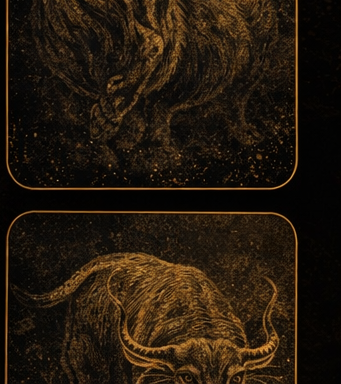
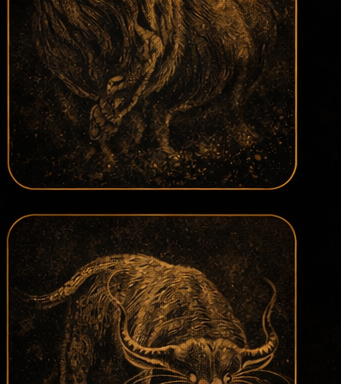
Add files via upload

diff --git a/index.html b/index.html
@@ -9,8 +9,8 @@
 .hero h1{margin:0;font-size:30px}.hero p{margin:6px 0 0;color:var(--muted);font-size:14px;line-height:1.45}
 .proverb-card{position:relative;overflow:hidden;border:1px solid rgba(212,175,55,.24);border-radius:24px;box-shadow:var(--shadow);margin-bottom:14px;min-height:330px;background:#0d0d0d}
 .proverb-bg{position:absolute;inset:0;background-position:center center;background-size:cover;background-repeat:no-repeat;filter:brightness(.95)}
-.proverb-overlay{position:absolute;inset:0;background:linear-gradient(90deg, rgba(0,0,0,.88) 0%, rgba(0,0,0,.78) 35%, rgba(0,0,0,.38) 65%, rgba(0,0,0,.18) 100%),linear-gradient(180deg, rgba(0,0,0,.12), rgba(0,0,0,.26));z-index:1}
-.proverb-content{position:relative;z-index:2;padding:18px;max-width:68%}
+.proverb-overlay{position:absolute;inset:0;background:linear-gradient(90deg, rgba(0,0,0,.88) 0%, rgba(0,0,0,.78) 34%, rgba(0,0,0,.40) 62%, rgba(0,0,0,.22) 100%),linear-gradient(180deg, rgba(0,0,0,.10), rgba(0,0,0,.24));z-index:1}
+.proverb-content{position:relative;z-index:2;padding:18px;max-width:66%}
 .proverb-top{display:flex;justify-content:space-between;align-items:center;gap:12px}.proverb-label{font-size:12px;font-weight:800;letter-spacing:.16em;text-transform:uppercase;color:#f4df95}
 .badge{font-size:11px;font-weight:700;border:1px solid rgba(255,255,255,.14);padding:6px 10px;border-radius:999px;color:#f3f3f3;background:rgba(255,255,255,.05)}
 .quote-mark{font-family:Georgia,"Times New Roman",serif;font-size:64px;line-height:.7;color:#d6ad4d;opacity:.95;margin-top:18px}
@@ -30,9 +30,9 @@ button.primary{background:#fff;color:#000}button.good{background:var(--good);col
 .series-row{display:flex;gap:8px;flex-wrap:wrap;margin-top:10px}.series-box{width:34px;height:34px;border-radius:10px;border:2px solid rgba(255,255,255,.4);display:flex;align-items:center;justify-content:center;background:#fff;color:#000;font-weight:900;font-size:15px;cursor:pointer;user-select:none}
 .series-box.done{background:var(--good);border-color:var(--good);color:#041c0e}.series-label{font-size:12px;color:var(--muted);margin-top:6px}
 .history-item{background:rgba(255,255,255,.03);border:1px solid var(--border);border-radius:14px;padding:12px;margin-top:10px}.stats-grid{display:grid;grid-template-columns:1fr 1fr;gap:10px}.footer{color:var(--muted);text-align:center;font-size:12px;margin-top:12px}
-@media (max-width:480px){.proverb-card{min-height:360px}.proverb-content{max-width:72%}.proverb-text{font-size:26px}.title{font-size:20px}.timer .time{font-size:38px}}
+@media (max-width:480px){.proverb-card{min-height:360px}.proverb-content{max-width:74%}.proverb-text{font-size:26px}.title{font-size:20px}.timer .time{font-size:38px}}
 </style></head><body><div class="wrap">
-<div class="hero"><h1>Treino Semanal Séries</h1><p>Agora com provérbio do dia em destaque e artes dos 12 animais do horóscopo chinês distribuídas pelas 60 frases.</p></div>
+<div class="hero"><h1>Treino Semanal Séries</h1><p>Agora com provérbio do dia em destaque e 12 artes individuais dos animais do horóscopo chinês distribuídas pelas 60 frases.</p></div>
 <div class="proverb-card"><div class="proverb-bg" id="proverbBg"></div><div class="proverb-overlay"></div><div class="proverb-content"><div class="proverb-top"><div class="proverb-label">Provérbio do dia</div><div class="badge">Sabedoria oriental</div></div><div class="quote-mark">“</div><div class="proverb-text" id="messageText"></div><div class="proverb-footer" id="animalName"></div></div></div>
 <div class="block"><strong>Instalar como app</strong><div id="installText">Abra no Chrome e aguarde alguns segundos. Se o botão aparecer, toque nele.</div><div class="row"><button id="installBtn" class="good" style="display:none">Instalar app</button><button id="exportBtn" class="ghost">Exportar progresso</button></div></div>
 <div class="row"><button id="wakeBtn" class="warn">Modo academia: desligado</button><button id="notifyBtn" class="ghost">Som e vibração: ligados</button></div>
@@ -44,7 +44,7 @@ button.primary{background:#fff;color:#000}button.good{background:var(--good);col
 <div class="history"><strong>Histórico</strong><div id="historyList">Nenhum treino finalizado ainda.</div></div>
 <div class="footer">App de treino com séries • provérbios do dia • salvo localmente no seu celular.</div></div>
 <script>
-const DAYS={"terca": {"title": "Terça — Peito + Tríceps", "sub": "19h • descanso 60–90s", "exs": [["Supino inclinado máquina", 4, "10 repetições", "90s"], ["Supino inclinado halter", 4, "10 repetições", "90s"], ["Crucifixo máquina", 4, "12 repetições", "60s"], ["Tríceps corda pulley", 4, "12 repetições", "60s"], ["Tríceps francês corda", 4, "12 repetições", "60s"], ["Coice corda isolado", 4, "12 repetições", "60s"]]}, "quarta": {"title": "Quarta — Costas + Bíceps", "sub": "19h • descanso 60–90s", "exs": [["Puxada frontal aberta", 4, "10 repetições", "90s"], ["Remada baixa triângulo", 4, "10 repetições", "90s"], ["Puxada em pé corda", 3, "12 repetições", "60s"], ["Crucifixo inverso", 3, "12 repetições", "60s"], ["Scott", 4, "10 repetições", "60s"], ["Rosca unilateral halter", 3, "10 repetições", "60s"], ["Polia baixa corda", 3, "12 repetições", "60s"]]}, "quinta": {"title": "Quinta — Perna + Ombro + Trapézio", "sub": "19h • perna primeiro • descanso 60–90s", "exs": [["Leg press", 4, "12 repetições", "90s"], ["Extensora", 3, "15 repetições", "60s"], ["Flexora", 3, "15 repetições", "60s"], ["Adutor", 3, "15 repetições", "60s"], ["Abdutor", 3, "15 repetições", "60s"], ["Panturrilha", 4, "15–20 repetições", "60s"], ["Desenvolvimento máquina", 4, "10 repetições", "90s"], ["Remada alta máquina", 3, "12 repetições", "60s"], ["Encolhimento trapézio", 4, "12–15 repetições", "60s"]]}, "sabado": {"title": "Sábado — Peito + Tríceps", "sub": "10h • variação leve • descanso 60–90s", "exs": [["Supino máquina reto", 4, "10 repetições", "90s"], ["Supino inclinado halter", 4, "10 repetições", "90s"], ["Crucifixo máquina", 4, "12 repetições", "60s"], ["Tríceps corda", 4, "12 repetições", "60s"], ["Francês corda", 4, "12 repetições", "60s"]]}, "domingo": {"title": "Domingo — Costas + Bíceps", "sub": "10h • descanso 60–90s", "exs": [["Puxada frontal aberta", 4, "10 repetições", "90s"], ["Remada baixa triângulo", 4, "10 repetições", "90s"], ["Crucifixo inverso", 3, "12 repetições", "60s"], ["Scott", 4, "10 repetições", "60s"], ["Rosca halter", 3, "10 repetições", "60s"]]}}, MESSAGE_CARDS=[{"text": "A jornada mais longa começa com o primeiro passo.", "animal": {"name": "Coelho", "slug": "coelho", "file": "animal_coelho.png"}}, {"text": "Não tenha medo de andar devagar; tenha medo de ficar parado.", "animal": {"name": "Serpente", "slug": "serpente", "file": "animal_serpente.png"}}, {"text": "Quem move uma montanha começa carregando pequenas pedras.", "animal": {"name": "Dragão", "slug": "dragao", "file": "animal_dragao.png"}}, {"text": "A melhor hora para plantar uma árvore foi há vinte anos; a segunda melhor hora é agora.", "animal": {"name": "Macaco", "slug": "macaco", "file": "animal_macaco.png"}}, {"text": "Água constante encontra caminho mesmo entre pedras.", "animal": {"name": "Rato", "slug": "rato", "file": "animal_rato.png"}}, {"text": "Quem aprende a esperar amadurece em silêncio.", "animal": {"name": "Cabra", "slug": "cabra", "file": "animal_cabra.png"}}, {"text": "Uma palavra branda pode abrir portas fechadas.", "animal": {"name": "Tigre", "slug": "tigre", "file": "animal_tigre.png"}}, {"text": "A paciência é amarga, mas seus frutos são doces.", "animal": {"name": "Cavalo", "slug": "cavalo", "file": "animal_cavalo.png"}}, {"text": "Quando o vento muda, alguns levantam muros; outros constroem moinhos.", "animal": {"name": "Porco", "slug": "porco", "file": "animal_porco.png"}}, {"text": "Um rio profundo corre sem alarde.", "animal": {"name": "Cão", "slug": "cao", "file": "animal_cao.png"}}, {"text": "Quem faz com constância vai além de quem começa com pressa.", "animal": {"name": "Boi", "slug": "boi", "file": "animal_boi.png"}}, {"text": "O bambu que se dobra é mais forte do que o carvalho que resiste a tudo.", "animal": {"name": "Galo", "slug": "galo", "file": "animal_galo.png"}}, {"text": "Antes de corrigir o mundo, arrume o próprio passo.", "animal": {"name": "Macaco", "slug": "macaco", "file": "animal_macaco.png"}}, {"text": "O sábio observa mais do que fala.", "animal": {"name": "Galo", "slug": "galo", "file": "animal_galo.png"}}, {"text": "Até a água turva se acalma quando deixada em repouso.", "animal": {"name": "Rato", "slug": "rato", "file": "animal_rato.png"}}, {"text": "Grandes resultados nascem de pequenos gestos repetidos.", "animal": {"name": "Porco", "slug": "porco", "file": "animal_porco.png"}}, {"text": "Quem domina a si mesmo já venceu metade da batalha.", "animal": {"name": "Serpente", "slug": "serpente", "file": "animal_serpente.png"}}, {"text": "O tempo esclarece o que a pressa confunde.", "animal": {"name": "Cavalo", "slug": "cavalo", "file": "animal_cavalo.png"}}, {"text": "Nem todo silêncio é vazio; às vezes, é compreensão.", "animal": {"name": "Cão", "slug": "cao", "file": "animal_cao.png"}}, {"text": "O caminho fica mais leve para quem aprende a levar só o necessário.", "animal": {"name": "Dragão", "slug": "dragao", "file": "animal_dragao.png"}}, {"text": "Uma faísca cuidada pode acender grande chama.", "animal": {"name": "Boi", "slug": "boi", "file": "animal_boi.png"}}, {"text": "Quem pergunta por um minuto aprende; quem não pergunta permanece perdido.", "animal": {"name": "Tigre", "slug": "tigre", "file": "animal_tigre.png"}}, {"text": "Mesmo a noite mais longa cede lugar ao amanhecer.", "animal": {"name": "Coelho", "slug": "coelho", "file": "animal_coelho.png"}}, {"text": "O fruto amadurece no seu tempo, não no da ansiedade.", "animal": {"name": "Cabra", "slug": "cabra", "file": "animal_cabra.png"}}, {"text": "A firmeza tranquila vale mais que a força impaciente.", "animal": {"name": "Serpente", "slug": "serpente", "file": "animal_serpente.png"}}, {"text": "Quem cuida da raiz não teme a estação.", "animal": {"name": "Coelho", "slug": "coelho", "file": "animal_coelho.png"}}, {"text": "Uma casa em paz vale mais do que um palácio inquieto.", "animal": {"name": "Macaco", "slug": "macaco", "file": "animal_macaco.png"}}, {"text": "Não é a altura da montanha que vence o homem, mas a persistência do passo.", "animal": {"name": "Galo", "slug": "galo", "file": "animal_galo.png"}}, {"text": "Quem cultiva serenidade enxerga mais longe.", "animal": {"name": "Cão", "slug": "cao", "file": "animal_cao.png"}}, {"text": "O lago reflete o céu quando suas águas estão calmas.", "animal": {"name": "Cabra", "slug": "cabra", "file": "animal_cabra.png"}}, {"text": "Quando a mente se aquieta, a direção aparece.", "animal": {"name": "Rato", "slug": "rato", "file": "animal_rato.png"}}, {"text": "O hábito de recomeçar é um tipo de sabedoria.", "animal": {"name": "Cavalo", "slug": "cavalo", "file": "animal_cavalo.png"}}, {"text": "A pressa tropeça onde a atenção pisaria firme.", "animal": {"name": "Porco", "slug": "porco", "file": "animal_porco.png"}}, {"text": "Quem guarda rancor carrega peso desnecessário.", "animal": {"name": "Dragão", "slug": "dragao", "file": "animal_dragao.png"}}, {"text": "Até o menor avanço é maior que a imobilidade.", "animal": {"name": "Tigre", "slug": "tigre", "file": "animal_tigre.png"}}, {"text": "O homem prudente mede o passo antes de correr.", "animal": {"name": "Boi", "slug": "boi", "file": "animal_boi.png"}}, {"text": "Uma árvore forte cresce devagar.", "animal": {"name": "Galo", "slug": "galo", "file": "animal_galo.png"}}, {"text": "Quem espalha bondade nunca volta de mãos vazias.", "animal": {"name": "Tigre", "slug": "tigre", "file": "animal_tigre.png"}}, {"text": "O erro reconhecido já começou a se transformar em acerto.", "animal": {"name": "Coelho", "slug": "coelho", "file": "animal_coelho.png"}}, {"text": "Quem escuta com atenção aprende duas vezes.", "animal": {"name": "Macaco", "slug": "macaco", "file": "animal_macaco.png"}}, {"text": "A estrada ensina mais a quem caminha do que a quem apenas observa.", "animal": {"name": "Serpente", "slug": "serpente", "file": "animal_serpente.png"}}, {"text": "Uma tigela cheia demais já não recebe mais nada.", "animal": {"name": "Dragão", "slug": "dragao", "file": "animal_dragao.png"}}, {"text": "O dia de hoje vale mais do que a promessa de amanhã.", "animal": {"name": "Cão", "slug": "cao", "file": "animal_cao.png"}}, {"text": "Quem mantém o coração em ordem organiza melhor o caminho.", "animal": {"name": "Cabra", "slug": "cabra", "file": "animal_cabra.png"}}, {"text": "A calma é uma forma silenciosa de poder.", "animal": {"name": "Rato", "slug": "rato", "file": "animal_rato.png"}}, {"text": "Não se apressa a primavera puxando as flores.", "animal": {"name": "Boi", "slug": "boi", "file": "animal_boi.png"}}, {"text": "Quem aceita aprender nunca envelhece por dentro.", "animal": {"name": "Cavalo", "slug": "cavalo", "file": "animal_cavalo.png"}}, {"text": "Uma lanterna pequena ainda é suficiente para atravessar a noite.", "animal": {"name": "Porco", "slug": "porco", "file": "animal_porco.png"}}, {"text": "Para endireitar o galho, cuide primeiro da raiz.", "animal": {"name": "Galo", "slug": "galo", "file": "animal_galo.png"}}, {"text": "Quem semeia constância colhe confiança.", "animal": {"name": "Cavalo", "slug": "cavalo", "file": "animal_cavalo.png"}}, {"text": "A verdade não precisa correr; ela chega.", "animal": {"name": "Dragão", "slug": "dragao", "file": "animal_dragao.png"}}, {"text": "A pedra é vencida menos pela força do golpe e mais pela repetição.", "animal": {"name": "Coelho", "slug": "coelho", "file": "animal_coelho.png"}}, {"text": "Nem toda demora é perda; às vezes, é preparo.", "animal": {"name": "Rato", "slug": "rato", "file": "animal_rato.png"}}, {"text": "Quem faz o simples com atenção constrói o extraordinário.", "animal": {"name": "Porco", "slug": "porco", "file": "animal_porco.png"}}, {"text": "A mente apressada vê pouco; o olhar sereno enxerga fundo.", "animal": {"name": "Cão", "slug": "cao", "file": "animal_cao.png"}}, {"text": "Se o coração estiver em paz, o caminho parecerá menos áspero.", "animal": {"name": "Serpente", "slug": "serpente", "file": "animal_serpente.png"}}, {"text": "O excesso de ruído afasta a clareza.", "animal": {"name": "Cabra", "slug": "cabra", "file": "animal_cabra.png"}}, {"text": "Uma ponte se sustenta porque cada parte cumpre o seu papel.", "animal": {"name": "Tigre", "slug": "tigre", "file": "animal_tigre.png"}}, {"text": "Quem honra o presente prepara melhor o futuro.", "animal": {"name": "Boi", "slug": "boi", "file": "animal_boi.png"}}, {"text": "O homem que cuida do que pensa melhora o que vive.", "animal": {"name": "Macaco", "slug": "macaco", "file": "animal_macaco.png"}}], REPO='/treino/', daysContainer=document.getElementById('daysContainer');
+const DAYS={"terca": {"title": "Terça — Peito + Tríceps", "sub": "19h • descanso 60–90s", "exs": [["Supino inclinado máquina", 4, "10 repetições", "90s"], ["Supino inclinado halter", 4, "10 repetições", "90s"], ["Crucifixo máquina", 4, "12 repetições", "60s"], ["Tríceps corda pulley", 4, "12 repetições", "60s"], ["Tríceps francês corda", 4, "12 repetições", "60s"], ["Coice corda isolado", 4, "12 repetições", "60s"]]}, "quarta": {"title": "Quarta — Costas + Bíceps", "sub": "19h • descanso 60–90s", "exs": [["Puxada frontal aberta", 4, "10 repetições", "90s"], ["Remada baixa triângulo", 4, "10 repetições", "90s"], ["Puxada em pé corda", 3, "12 repetições", "60s"], ["Crucifixo inverso", 3, "12 repetições", "60s"], ["Scott", 4, "10 repetições", "60s"], ["Rosca unilateral halter", 3, "10 repetições", "60s"], ["Polia baixa corda", 3, "12 repetições", "60s"]]}, "quinta": {"title": "Quinta — Perna + Ombro + Trapézio", "sub": "19h • perna primeiro • descanso 60–90s", "exs": [["Leg press", 4, "12 repetições", "90s"], ["Extensora", 3, "15 repetições", "60s"], ["Flexora", 3, "15 repetições", "60s"], ["Adutor", 3, "15 repetições", "60s"], ["Abdutor", 3, "15 repetições", "60s"], ["Panturrilha", 4, "15–20 repetições", "60s"], ["Desenvolvimento máquina", 4, "10 repetições", "90s"], ["Remada alta máquina", 3, "12 repetições", "60s"], ["Encolhimento trapézio", 4, "12–15 repetições", "60s"]]}, "sabado": {"title": "Sábado — Peito + Tríceps", "sub": "10h • variação leve • descanso 60–90s", "exs": [["Supino máquina reto", 4, "10 repetições", "90s"], ["Supino inclinado halter", 4, "10 repetições", "90s"], ["Crucifixo máquina", 4, "12 repetições", "60s"], ["Tríceps corda", 4, "12 repetições", "60s"], ["Francês corda", 4, "12 repetições", "60s"]]}, "domingo": {"title": "Domingo — Costas + Bíceps", "sub": "10h • descanso 60–90s", "exs": [["Puxada frontal aberta", 4, "10 repetições", "90s"], ["Remada baixa triângulo", 4, "10 repetições", "90s"], ["Crucifixo inverso", 3, "12 repetições", "60s"], ["Scott", 4, "10 repetições", "60s"], ["Rosca halter", 3, "10 repetições", "60s"]]}}, MESSAGE_CARDS=[{"text": "A jornada mais longa começa com o primeiro passo.", "animal": {"name": "Boi", "slug": "boi", "file": "animal_boi.png"}}, {"text": "Não tenha medo de andar devagar; tenha medo de ficar parado.", "animal": {"name": "Galo", "slug": "galo", "file": "animal_galo.png"}}, {"text": "Quem move uma montanha começa carregando pequenas pedras.", "animal": {"name": "Dragão", "slug": "dragao", "file": "animal_dragao.png"}}, {"text": "A melhor hora para plantar uma árvore foi há vinte anos; a segunda melhor hora é agora.", "animal": {"name": "Rato", "slug": "rato", "file": "animal_rato.png"}}, {"text": "Água constante encontra caminho mesmo entre pedras.", "animal": {"name": "Serpente", "slug": "serpente", "file": "animal_serpente.png"}}, {"text": "Quem aprende a esperar amadurece em silêncio.", "animal": {"name": "Tigre", "slug": "tigre", "file": "animal_tigre.png"}}, {"text": "Uma palavra branda pode abrir portas fechadas.", "animal": {"name": "Macaco", "slug": "macaco", "file": "animal_macaco.png"}}, {"text": "A paciência é amarga, mas seus frutos são doces.", "animal": {"name": "Porco", "slug": "porco", "file": "animal_porco.png"}}, {"text": "Quando o vento muda, alguns levantam muros; outros constroem moinhos.", "animal": {"name": "Cavalo", "slug": "cavalo", "file": "animal_cavalo.png"}}, {"text": "Um rio profundo corre sem alarde.", "animal": {"name": "Coelho", "slug": "coelho", "file": "animal_coelho.png"}}, {"text": "Quem faz com constância vai além de quem começa com pressa.", "animal": {"name": "Cão", "slug": "cao", "file": "animal_cao.png"}}, {"text": "O bambu que se dobra é mais forte do que o carvalho que resiste a tudo.", "animal": {"name": "Cabra", "slug": "cabra", "file": "animal_cabra.png"}}, {"text": "Antes de corrigir o mundo, arrume o próprio passo.", "animal": {"name": "Galo", "slug": "galo", "file": "animal_galo.png"}}, {"text": "O sábio observa mais do que fala.", "animal": {"name": "Cavalo", "slug": "cavalo", "file": "animal_cavalo.png"}}, {"text": "Até a água turva se acalma quando deixada em repouso.", "animal": {"name": "Tigre", "slug": "tigre", "file": "animal_tigre.png"}}, {"text": "Grandes resultados nascem de pequenos gestos repetidos.", "animal": {"name": "Porco", "slug": "porco", "file": "animal_porco.png"}}, {"text": "Quem domina a si mesmo já venceu metade da batalha.", "animal": {"name": "Rato", "slug": "rato", "file": "animal_rato.png"}}, {"text": "O tempo esclarece o que a pressa confunde.", "animal": {"name": "Serpente", "slug": "serpente", "file": "animal_serpente.png"}}, {"text": "Nem todo silêncio é vazio; às vezes, é compreensão.", "animal": {"name": "Boi", "slug": "boi", "file": "animal_boi.png"}}, {"text": "O caminho fica mais leve para quem aprende a levar só o necessário.", "animal": {"name": "Coelho", "slug": "coelho", "file": "animal_coelho.png"}}, {"text": "Uma faísca cuidada pode acender grande chama.", "animal": {"name": "Macaco", "slug": "macaco", "file": "animal_macaco.png"}}, {"text": "Quem pergunta por um minuto aprende; quem não pergunta permanece perdido.", "animal": {"name": "Dragão", "slug": "dragao", "file": "animal_dragao.png"}}, {"text": "Mesmo a noite mais longa cede lugar ao amanhecer.", "animal": {"name": "Cabra", "slug": "cabra", "file": "animal_cabra.png"}}, {"text": "O fruto amadurece no seu tempo, não no da ansiedade.", "animal": {"name": "Cão", "slug": "cao", "file": "animal_cao.png"}}, {"text": "A firmeza tranquila vale mais que a força impaciente.", "animal": {"name": "Dragão", "slug": "dragao", "file": "animal_dragao.png"}}, {"text": "Quem cuida da raiz não teme a estação.", "animal": {"name": "Rato", "slug": "rato", "file": "animal_rato.png"}}, {"text": "Uma casa em paz vale mais do que um palácio inquieto.", "animal": {"name": "Cavalo", "slug": "cavalo", "file": "animal_cavalo.png"}}, {"text": "Não é a altura da montanha que vence o homem, mas a persistência do passo.", "animal": {"name": "Cão", "slug": "cao", "file": "animal_cao.png"}}, {"text": "Quem cultiva serenidade enxerga mais longe.", "animal": {"name": "Serpente", "slug": "serpente", "file": "animal_serpente.png"}}, {"text": "O lago reflete o céu quando suas águas estão calmas.", "animal": {"name": "Porco", "slug": "porco", "file": "animal_porco.png"}}, {"text": "Quando a mente se aquieta, a direção aparece.", "animal": {"name": "Boi", "slug": "boi", "file": "animal_boi.png"}}, {"text": "O hábito de recomeçar é um tipo de sabedoria.", "animal": {"name": "Coelho", "slug": "coelho", "file": "animal_coelho.png"}}, {"text": "A pressa tropeça onde a atenção pisaria firme.", "animal": {"name": "Macaco", "slug": "macaco", "file": "animal_macaco.png"}}, {"text": "Quem guarda rancor carrega peso desnecessário.", "animal": {"name": "Galo", "slug": "galo", "file": "animal_galo.png"}}, {"text": "Até o menor avanço é maior que a imobilidade.", "animal": {"name": "Cabra", "slug": "cabra", "file": "animal_cabra.png"}}, {"text": "O homem prudente mede o passo antes de correr.", "animal": {"name": "Tigre", "slug": "tigre", "file": "animal_tigre.png"}}, {"text": "Uma árvore forte cresce devagar.", "animal": {"name": "Galo", "slug": "galo", "file": "animal_galo.png"}}, {"text": "Quem espalha bondade nunca volta de mãos vazias.", "animal": {"name": "Dragão", "slug": "dragao", "file": "animal_dragao.png"}}, {"text": "O erro reconhecido já começou a se transformar em acerto.", "animal": {"name": "Boi", "slug": "boi", "file": "animal_boi.png"}}, {"text": "Quem escuta com atenção aprende duas vezes.", "animal": {"name": "Cavalo", "slug": "cavalo", "file": "animal_cavalo.png"}}, {"text": "A estrada ensina mais a quem caminha do que a quem apenas observa.", "animal": {"name": "Porco", "slug": "porco", "file": "animal_porco.png"}}, {"text": "Uma tigela cheia demais já não recebe mais nada.", "animal": {"name": "Cabra", "slug": "cabra", "file": "animal_cabra.png"}}, {"text": "O dia de hoje vale mais do que a promessa de amanhã.", "animal": {"name": "Coelho", "slug": "coelho", "file": "animal_coelho.png"}}, {"text": "Quem mantém o coração em ordem organiza melhor o caminho.", "animal": {"name": "Tigre", "slug": "tigre", "file": "animal_tigre.png"}}, {"text": "A calma é uma forma silenciosa de poder.", "animal": {"name": "Cão", "slug": "cao", "file": "animal_cao.png"}}, {"text": "Não se apressa a primavera puxando as flores.", "animal": {"name": "Macaco", "slug": "macaco", "file": "animal_macaco.png"}}, {"text": "Quem aceita aprender nunca envelhece por dentro.", "animal": {"name": "Serpente", "slug": "serpente", "file": "animal_serpente.png"}}, {"text": "Uma lanterna pequena ainda é suficiente para atravessar a noite.", "animal": {"name": "Rato", "slug": "rato", "file": "animal_rato.png"}}, {"text": "Para endireitar o galho, cuide primeiro da raiz.", "animal": {"name": "Dragão", "slug": "dragao", "file": "animal_dragao.png"}}, {"text": "Quem semeia constância colhe confiança.", "animal": {"name": "Cavalo", "slug": "cavalo", "file": "animal_cavalo.png"}}, {"text": "A verdade não precisa correr; ela chega.", "animal": {"name": "Cabra", "slug": "cabra", "file": "animal_cabra.png"}}, {"text": "A pedra é vencida menos pela força do golpe e mais pela repetição.", "animal": {"name": "Macaco", "slug": "macaco", "file": "animal_macaco.png"}}, {"text": "Nem toda demora é perda; às vezes, é preparo.", "animal": {"name": "Serpente", "slug": "serpente", "file": "animal_serpente.png"}}, {"text": "Quem faz o simples com atenção constrói o extraordinário.", "animal": {"name": "Tigre", "slug": "tigre", "file": "animal_tigre.png"}}, {"text": "A mente apressada vê pouco; o olhar sereno enxerga fundo.", "animal": {"name": "Porco", "slug": "porco", "file": "animal_porco.png"}}, {"text": "Se o coração estiver em paz, o caminho parecerá menos áspero.", "animal": {"name": "Coelho", "slug": "coelho", "file": "animal_coelho.png"}}, {"text": "O excesso de ruído afasta a clareza.", "animal": {"name": "Boi", "slug": "boi", "file": "animal_boi.png"}}, {"text": "Uma ponte se sustenta porque cada parte cumpre o seu papel.", "animal": {"name": "Cão", "slug": "cao", "file": "animal_cao.png"}}, {"text": "Quem honra o presente prepara melhor o futuro.", "animal": {"name": "Rato", "slug": "rato", "file": "animal_rato.png"}}, {"text": "O homem que cuida do que pensa melhora o que vive.", "animal": {"name": "Galo", "slug": "galo", "file": "animal_galo.png"}}], REPO='/treino/', daysContainer=document.getElementById('daysContainer');
 function dayIndex(){const start=new Date('2026-01-01'); const now=new Date(); return Math.abs(Math.floor((now-start)/(1000*60*60*24)));}
 const todayCard=MESSAGE_CARDS[dayIndex()%MESSAGE_CARDS.length];
 document.getElementById('messageText').textContent=todayCard.text;

diff --git a/sw.js b/sw.js
@@ -1,1 +1,1 @@
-const CACHE='treino-final-animais-v2';const ASSETS=["/treino/", "/treino/index.html", "/treino/manifest.json", "/treino/icon-192.png", "/treino/icon-512.png", "/treino/animal_dragao.png", "/treino/animal_tigre.png", "/treino/animal_coelho.png", "/treino/animal_cavalo.png", "/treino/animal_cabra.png", "/treino/animal_serpente.png", "/treino/animal_macaco.png", "/treino/animal_galo.png", "/treino/animal_boi.png", "/treino/animal_porco.png", "/treino/animal_rato.png", "/treino/animal_cao.png"];self.addEventListener('install',e=>{e.waitUntil(caches.open(CACHE).then(c=>c.addAll(ASSETS)));self.skipWaiting();});self.addEventListener('activate',e=>{e.waitUntil(caches.keys().then(keys=>Promise.all(keys.filter(k=>k!==CACHE).map(k=>caches.delete(k)))));self.clients.claim();});self.addEventListener('fetch',e=>{if(e.request.method!=='GET')return; e.respondWith(caches.match(e.request).then(r=>r||fetch(e.request).then(n=>{const cp=n.clone(); caches.open(CACHE).then(c=>c.put(e.request,cp)); return n;}).catch(()=>caches.match('/treino/index.html'))));});
+const CACHE='treino-animais-individuais-v1';const ASSETS=["/treino/", "/treino/index.html", "/treino/manifest.json", "/treino/icon-192.png", "/treino/icon-512.png", "/treino/animal_dragao.png", "/treino/animal_tigre.png", "/treino/animal_coelho.png", "/treino/animal_cavalo.png", "/treino/animal_cabra.png", "/treino/animal_serpente.png", "/treino/animal_macaco.png", "/treino/animal_galo.png", "/treino/animal_boi.png", "/treino/animal_porco.png", "/treino/animal_rato.png", "/treino/animal_cao.png"];self.addEventListener('install',e=>{e.waitUntil(caches.open(CACHE).then(c=>c.addAll(ASSETS)));self.skipWaiting();});self.addEventListener('activate',e=>{e.waitUntil(caches.keys().then(keys=>Promise.all(keys.filter(k=>k!==CACHE).map(k=>caches.delete(k)))));self.clients.claim();});self.addEventListener('fetch',e=>{if(e.request.method!=='GET')return; e.respondWith(caches.match(e.request).then(r=>r||fetch(e.request).then(n=>{const cp=n.clone(); caches.open(CACHE).then(c=>c.put(e.request,cp)); return n;}).catch(()=>caches.match('/treino/index.html'))));});
